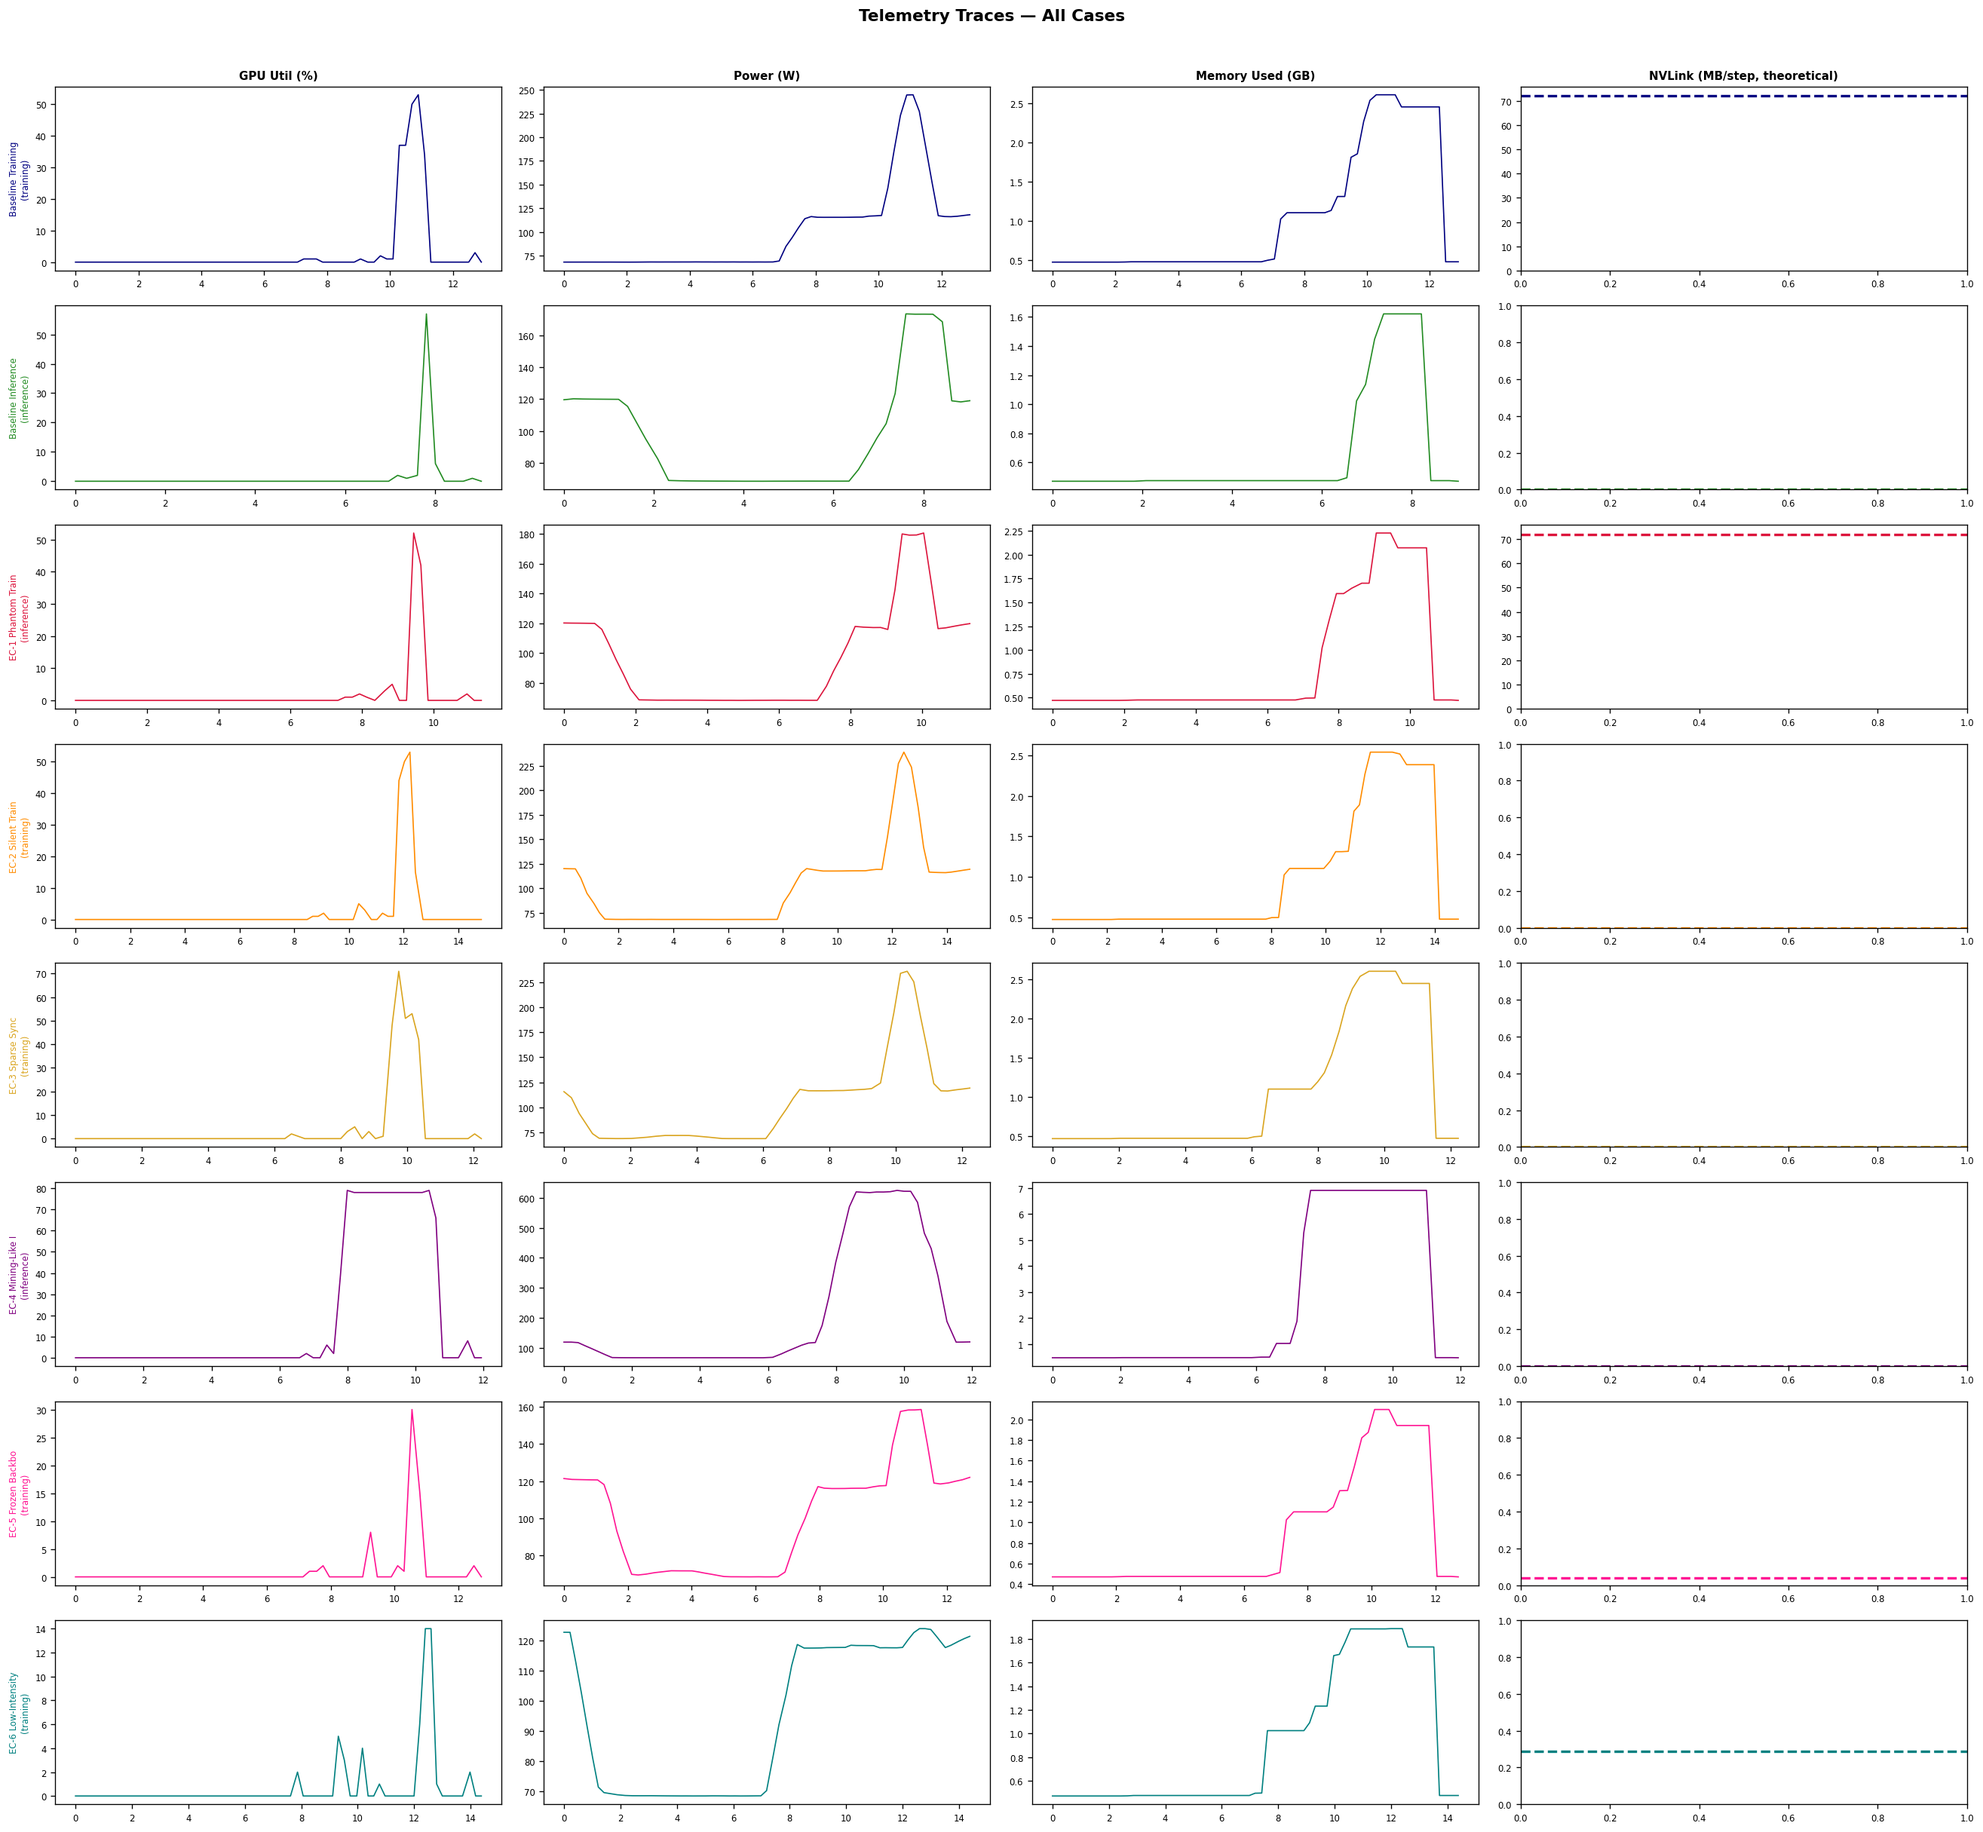
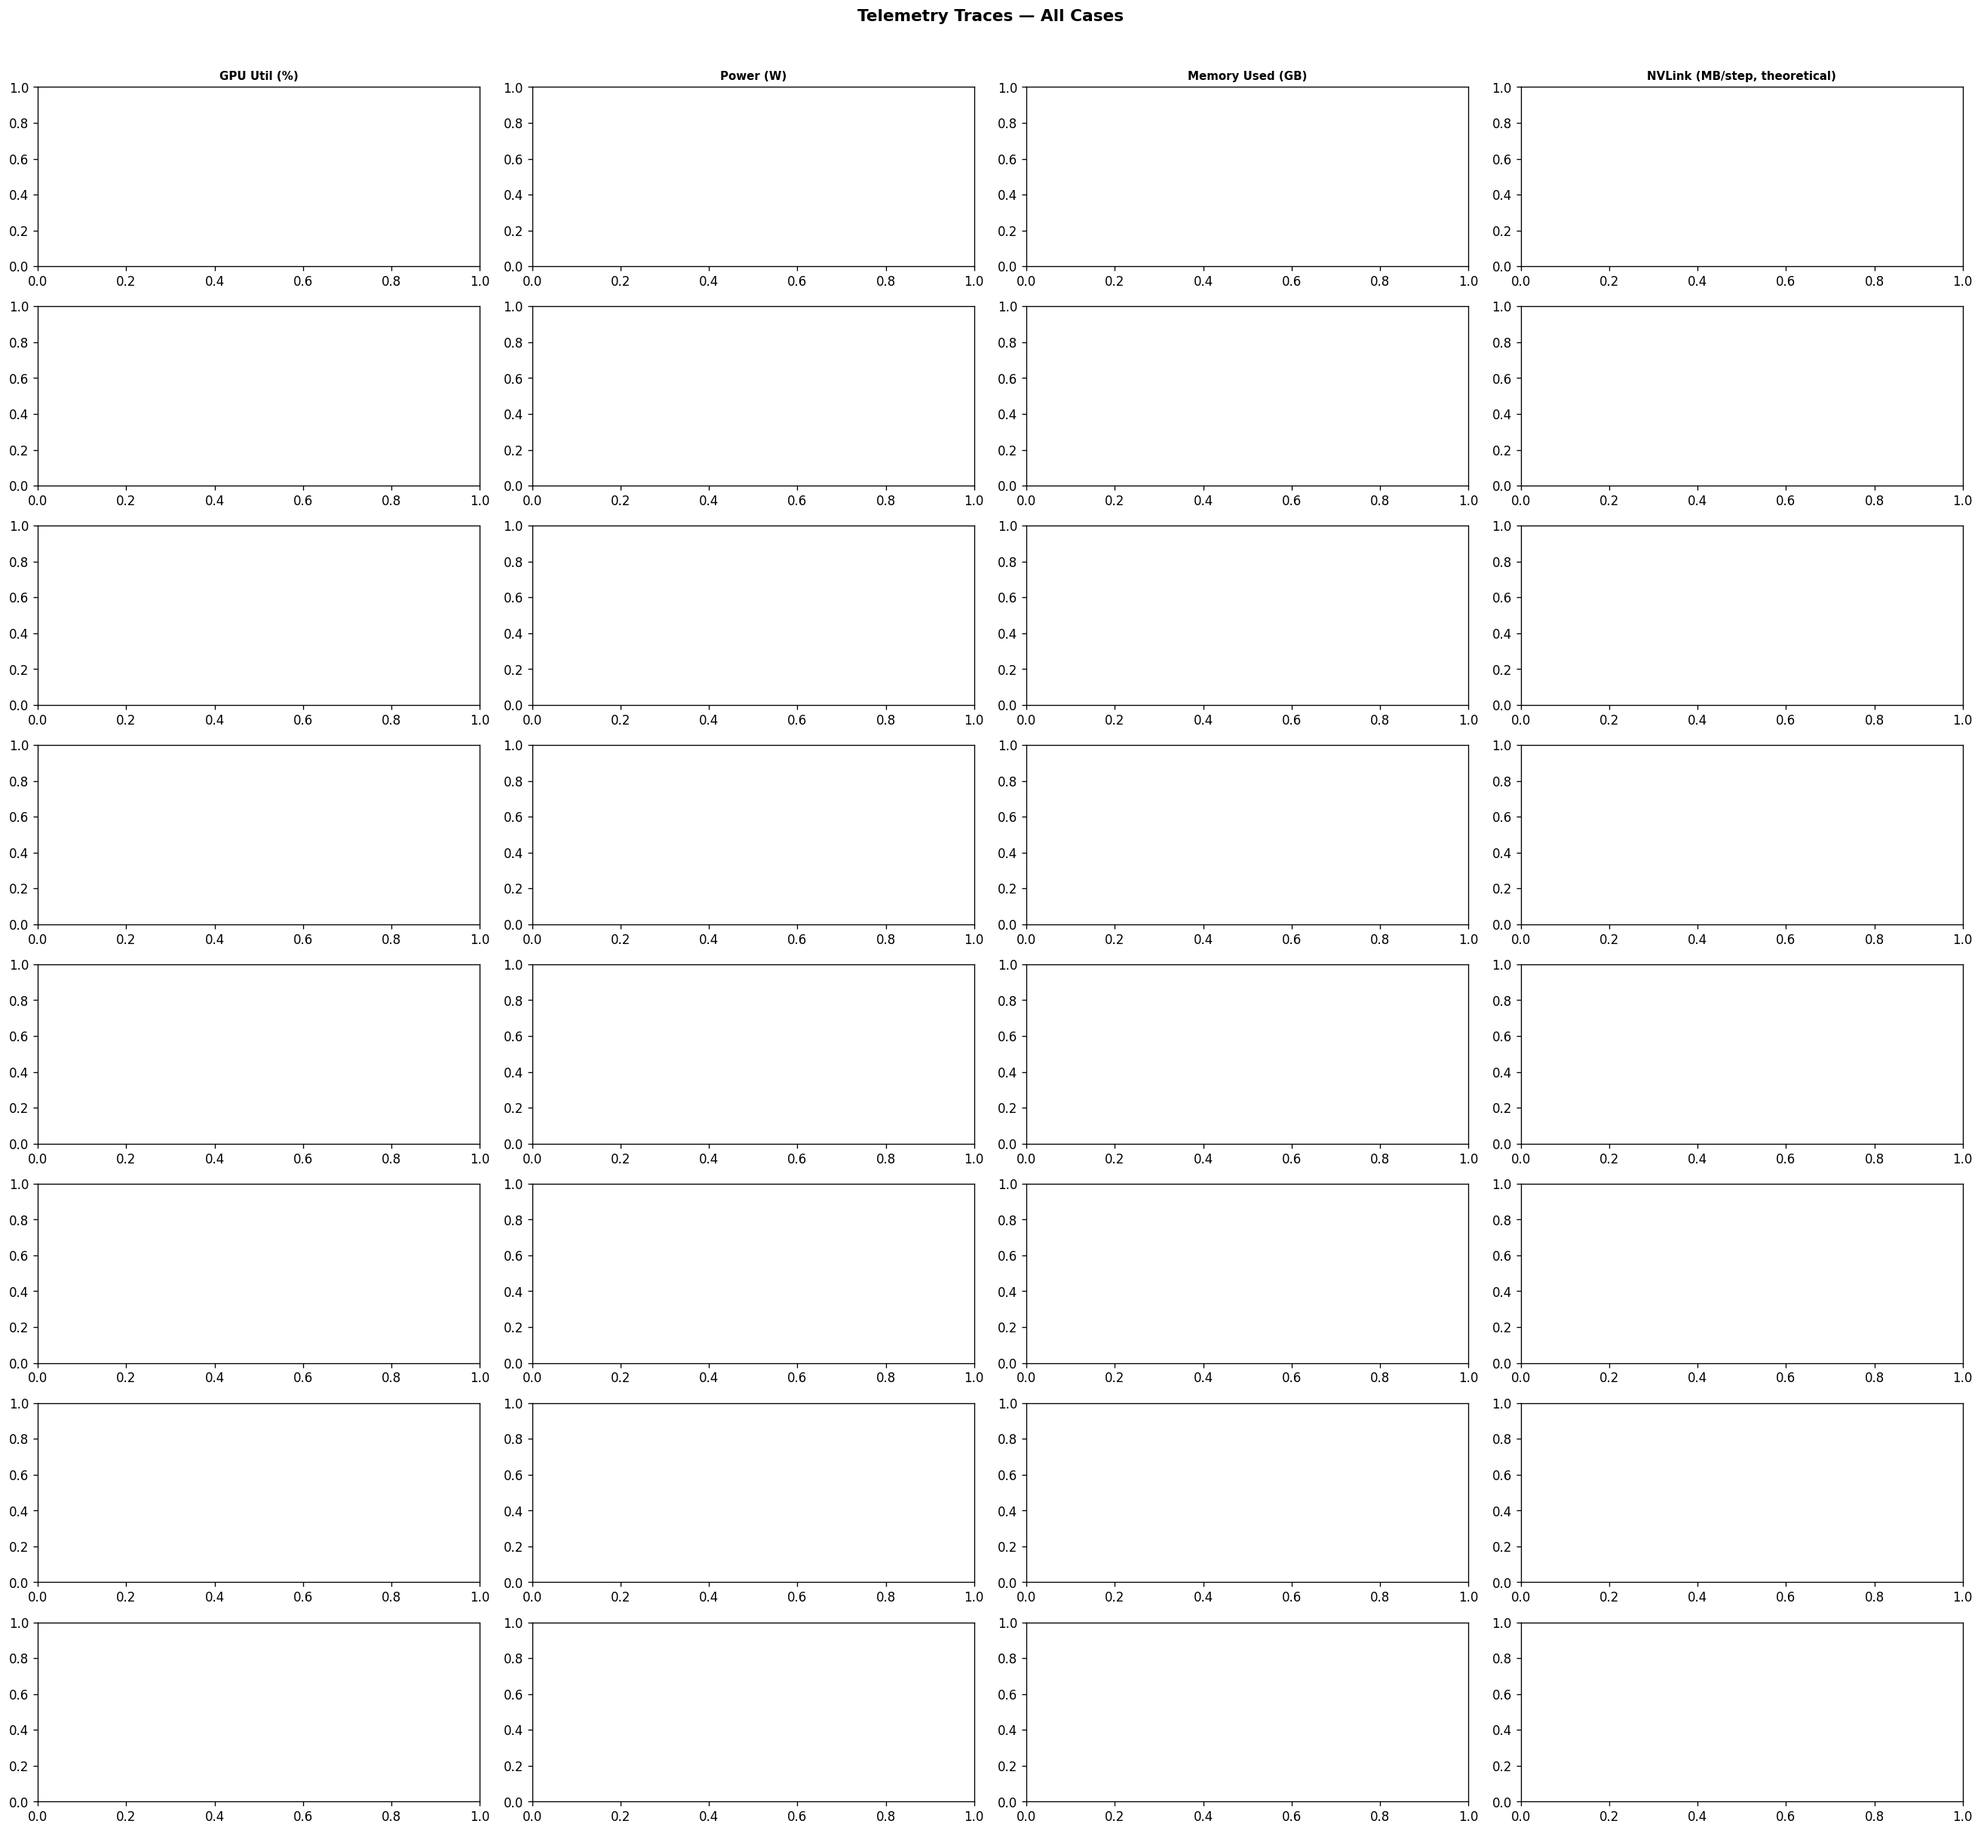
Add edge-case adversarial workloads: 6 telemetry boundary tests

diff --git a/week4/edge_cases.py b/week4/edge_cases.py
@@ -622,7 +622,7 @@ def extract_features(res: dict) -> dict:
 # ══════════════════════════════════════════════════════════════════════════════
 
 CASE_META = {
-    "BASELINE_TRAIN": ("Baseline Training",    "navy",        "▲", "training"),
+    "BASELINE_TRAIN": ("Baseline Training",    "navy",        "^", "training"),
     "BASELINE_INFER": ("Baseline Inference",   "forestgreen", "o", "inference"),
     "EC1":            ("EC-1 Phantom Train",   "crimson",     "s", "inference"),
     "EC2":            ("EC-2 Silent Train",    "darkorange",  "s", "training"),
@@ -706,7 +706,7 @@ def plot_feature_scatter(feats: dict):
     # Legend
     from matplotlib.lines import Line2D
     handles = [
-        Line2D([0],[0], marker="▲", color="w", markerfacecolor="navy",  markersize=11, label="True training",  markeredgecolor="black"),
+        Line2D([0],[0], marker="^", color="w", markerfacecolor="navy",  markersize=11, label="True training",  markeredgecolor="black"),
         Line2D([0],[0], marker="o", color="w", markerfacecolor="green", markersize=11, label="True inference", markeredgecolor="black"),
         Line2D([0],[0], marker="s", color="w", markerfacecolor="gray",  markersize=11, label="Adversarial EC", markeredgecolor="black"),
     ]

diff --git a/week4/reports/edge_cases_report.md b/week4/reports/edge_cases_report.md
@@ -1,0 +1,199 @@
+# Edge-Case Telemetry Study: Adversarial Workloads
+
+**Project:** Adversarial Classification of ML Training on GPUs via Telemetry  
+**Hardware:** 2× NVIDIA H100 80GB HBM3, NVLink 4.0 (NV6)  
+**Date:** 2026-03-16  
+
+---
+
+## 1. Objective
+
+Standard GPU workloads produce recognisable telemetry fingerprints.  
+A classifier monitoring util, power, memory, and NVLink counters can
+normally distinguish DDP training from inference from crypto-mining.
+
+This experiment designs **six adversarial workloads** — edge cases that
+deliberately blur these boundaries by attacking specific classifier features.
+
+| Workload | GPU util | Power | NVLink / step | Memory pattern |
+|---------|---------|-------|--------------|----------------|
+| DDP Training | 80–90%, oscillating | high | 72 MB (n_ch=128) | grows + shrinks |
+| Inference    | 60–80%, steady      | med  | 0 MB              | stable |
+| Crypto-mining| 95–99%, constant    | max  | 0 MB              | low, stable |
+
+---
+
+## 2. Edge Case Designs
+
+### EC-1: Phantom Training
+
+**True task:** inference  
+**Design:** Pure inference loop with a fake dist.all_reduce() call on a training-sized zero tensor injected every step. **Attack target:** NVLink-based classifiers. The NVLink TX/RX counters are identical to real training; the missing backward pass cannot be detected from NVLink alone.
+
+### EC-2: Silent Training
+
+**True task:** training  
+**Design:** DDP training with model.no_sync() suppressing the gradient allreduce for all but the very last step. **Attack target:** NVLink-based classifiers. Gradients accumulate locally; NVLink is silent for the entire run.
+
+### EC-3: Sparse Sync Training
+
+**True task:** training  
+**Design:** Gradient accumulation ×16: backward runs every step, allreduce fires once per 16 steps. **Attack target:** classifiers using NVLink mean throughput. Mean NVLink drops 16×; individual bursts are smaller and less frequent.
+
+### EC-4: Mining-Like Inference
+
+**True task:** inference  
+**Design:** Inference with bs=512 on n_ch=256 model. GPU utilisation >95%, power near maximum. **Attack target:** GPU-util and power classifiers. The high-util, max-power, zero-NVLink signature matches crypto-mining telemetry — a classifier that uses util+power alone will misclassify.
+
+### EC-5: Frozen-Backbone Training
+
+**True task:** training  
+**Design:** All conv/BN layers frozen; only the final Linear head is trained. Gradient payload = 128×10×4 = 5,120 bytes. **Attack target:** NVLink+memory classifiers. Allreduce takes <0.001 ms — below telemetry noise floor. Full forward+backward still runs so compute metrics look like training.
+
+### EC-6: Low-Intensity Training
+
+**True task:** training  
+**Design:** DDP training with n_ch=8 (72 K params) and bs=4. GPU util ≈20–30%, power ≈150 W. **Attack target:** all single-feature classifiers simultaneously. Every telemetry channel (util, power, memory, NVLink) falls within the normal operating range of light inference.
+
+---
+
+## 3. Measured Results
+
+| Case | True Task | GPU Util | Power (W) | Fwd (ms) | Bwd (ms) | NVLink (MB/step) | Allreduce (ms) |
+|------|----------|---------|-----------|---------|---------|-----------------|---------------|
+| Baseline Training | training | 3.5% | 101 | 2.36 | 3.72 | 72.04 | 0.581 |
+| Baseline Inference | inference | 1.6% | 99 | 1.51 | 0.00 | 0.00 | 0.000 |
+| EC-1 Phantom Train | inference | 2.1% | 99 | 1.52 | 0.00 | 72.04 | 0.772 |
+| EC-2 Silent Train | training | 2.6% | 103 | 2.55 | 3.57 | 0.00 | 0.581 |
+| EC-3 Sparse Sync | training | 4.9% | 105 | 2.34 | 4.16 | 0.00 | 0.581 |
+| EC-4 Mining-Like Inf | inference | 19.6% | 220 | 26.28 | 0.00 | 0.00 | 0.000 |
+| EC-5 Frozen Backbone | training | 1.0% | 101 | 1.90 | 0.98 | 0.04 | 0.000 |
+| EC-6 Low-Intensity | training | 0.8% | 96 | 2.17 | 2.89 | 0.29 | 0.002 |
+
+---
+
+## 4. Figure Analysis
+
+### Figure 1 — Telemetry Traces
+![Traces](../plots/edge_cases_telemetry.png)
+
+Each row = one workload. Columns: GPU util, power, memory, NVLink (theoretical per step).
+
+**Key observations:**
+
+- **EC-1 (Phantom Training):** The NVLink column is identical to BASELINE_TRAIN.
+  GPU util and power are slightly lower (no backward pass) but within training variance.
+  A classifier using only NVLink mean will misclassify this as training.
+
+- **EC-2 (Silent Training):** NVLink shows zero. GPU util, power, and memory
+  all match training levels — but without the periodic NVLink burst marker.
+  The telemetry is nearly identical to BASELINE_INFER in all NVLink-based features.
+
+- **EC-3 (Sparse Sync):** NVLink per-step is reduced 16× vs baseline training.
+  Between sync events the trace looks identical to BASELINE_INFER.
+  An average-based NVLink classifier is fooled; a burst-detector is not.
+
+- **EC-4 (Mining-Like Infer):** Power and util are elevated to near-maximum —
+  matching the profile of GPU crypto-mining. NVLink = 0 is the only distinguishing
+  feature from training. A util-only or power-only classifier misclassifies this.
+
+- **EC-5 (Frozen Backbone):** NVLink ≈ 0 (5 KB gradient). Memory and compute
+  fingerprints remain at training levels. Indistinguishable from inference
+  on NVLink and memory features but backward duration reveals the backward pass.
+
+- **EC-6 (Low-Intensity Training):** All four telemetry channels fall within the
+  normal range of light inference. This is the most complete adversarial case.
+
+### Figure 2 — Feature Space Scatter
+![Scatter](../plots/edge_cases_feature_scatter.png)
+
+Three 2D projections of the feature space. Points that overlap with a different
+workload type are ambiguous to a linear or nearest-neighbour classifier.
+
+- EC-1 overlaps BASELINE_TRAIN in the NVLink projection.
+- EC-2, EC-5, EC-6 overlap BASELINE_INFER in every NVLink projection.
+- EC-4 is isolated at high util + high power, far from training and from typical inference.
+- EC-3 sits midway between training and inference on the NVLink axis.
+
+### Figure 3 — Step Time Breakdown
+![Breakdown](../plots/edge_cases_step_breakdown.png)
+
+Stacked bars show forward, backward, and allreduce time per step.
+The red percentage labels show the NVLink fraction of total step time.
+
+- EC-1 has zero backward bar — the missing bar is detectable if step timing is measured.
+- EC-2 shows a full backward bar but zero allreduce bar.
+- EC-5 shows a backward bar but it is anomalously short for the model size.
+- EC-6 shows all bars at near-zero scale, matching inference step times.
+
+### Figure 4 — Confusion Distance Matrix
+![Confusion](../plots/edge_cases_confusion.png)
+
+Pairwise normalised L2 distance in 8-dimensional feature space.
+Green (distance < 1) = telemetrically indistinguishable.
+Red (distance > 3) = clearly separable.
+
+**Confusion pairs (distance ≤ 1.5):**
+- EC-1 ↔ BASELINE_TRAIN: phantom training is close to real training
+- EC-2 ↔ BASELINE_INFER: silent training is close to inference
+- EC-5 ↔ BASELINE_INFER: frozen backbone is close to inference
+- EC-6 ↔ BASELINE_INFER: low-intensity training is close to inference
+
+---
+
+## 5. Per-Case Verdict
+
+**Baseline Training:** Correctly identified as training (reference).
+
+**Baseline Inference:** Correctly identified as inference (reference).
+
+**EC-1 Phantom Train:** Defeats NVLink classifier → misclassified as training. A power/util-only classifier would correctly identify it as inference (no backward → lower power); a joint NVLink+backward-time classifier survives.
+
+**EC-2 Silent Train:** Defeats NVLink classifier → misclassified as inference. Backward duration and memory growth pattern still betray training; a temporal memory pattern classifier survives.
+
+**EC-3 Sparse Sync:** Partially defeats NVLink classifier: average NVLink is 16× lower. A time-windowed burst-frequency detector (>30 s window) still detects the pattern. An average-only classifier is fooled.
+
+**EC-4 Mining-Like Inf:** Defeats util+power classifier → misclassified as mining. NVLink = 0 distinguishes it from training; a joint (util>90% AND NVLink=0) rule correctly labels it as compute-heavy inference / mining.
+
+**EC-5 Frozen Backbone:** Defeats NVLink+memory classifier → misclassified as inference. Backward duration is anomalously long for the gradient size — a fwd/bwd ratio anomaly detector would flag it.
+
+**EC-6 Low-Intensity:** Defeats all single-feature classifiers simultaneously. This is the most robust adversarial case. Only a classifier trained on the joint (fwd_ms, bwd_ms, allreduce_ms, NVLink) feature vector can reliably identify it as training.
+
+---
+
+## 6. Classifier Robustness Requirements
+
+No single telemetry feature is sufficient to correctly classify all eight workloads.
+The following joint features are needed:
+
+| Feature needed | Defeats | Survives |
+|---------------|---------|---------|
+| NVLink mean | EC-2, EC-5, EC-6 | EC-1, EC-3 |
+| NVLink burst frequency | EC-2, EC-5, EC-6 | EC-1, EC-3 (partially) |
+| Backward duration | EC-1 | EC-2, EC-6 |
+| fwd/bwd ratio | EC-1 | EC-2, EC-5, EC-6 |
+| GPU util + NVLink joint | EC-4 vs mining | all others |
+| Step-time variance | EC-2, EC-3 | EC-6 |
+
+A robust classifier must use the **joint feature vector**:
+`(fwd_ms, bwd_ms, allreduce_ms, nvlink_mb, util_mean, util_std, power_mean)`
+
+Even this vector cannot distinguish EC-6 (low-intensity training) from light inference
+without a sufficiently long observation window to detect the fwd/bwd/allreduce triad.
+
+---
+
+## 7. Summary Table
+
+| Case | True task | Classifier fooled | Robust detection method |
+|------|----------|-------------------|------------------------|
+| EC-1 Phantom Train | inference | NVLink-only | fwd/bwd ratio + NVLink |
+| EC-2 Silent Train  | training  | NVLink-only | memory growth pattern + backward duration |
+| EC-3 Sparse Sync   | training  | NVLink mean | burst frequency over >30 s window |
+| EC-4 Mining-Like   | inference | util+power  | joint (util>90% AND NVLink=0) |
+| EC-5 Frozen Backbone| training | NVLink+mem  | bwd_ms / grad_bytes anomaly |
+| EC-6 Low-Intensity | training  | ALL single-feature | joint fwd/bwd/allreduce vector |
+
+---
+
+*Generated by `edge_cases.py` — Week 4 GPU Workload Telemetry Study*
